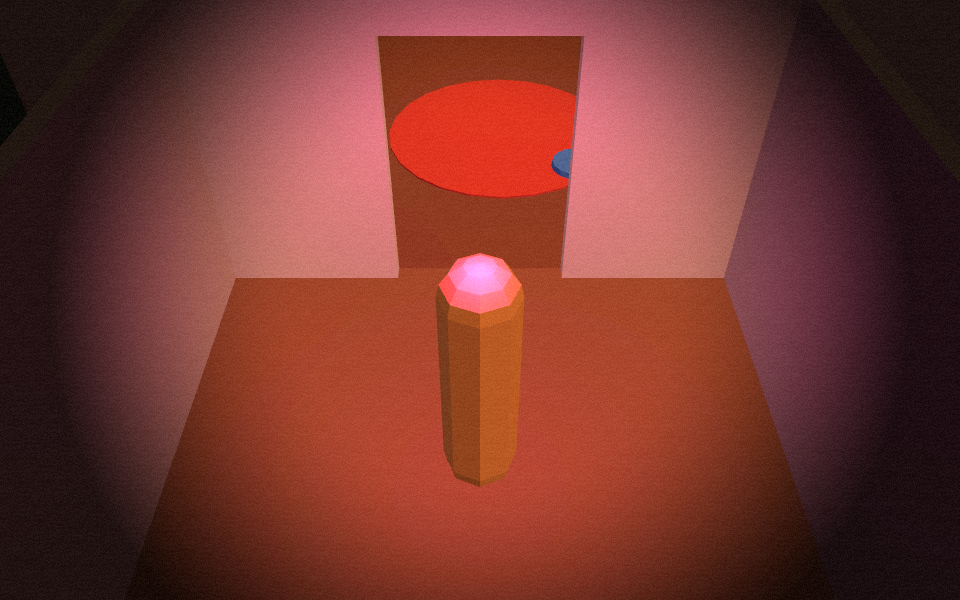
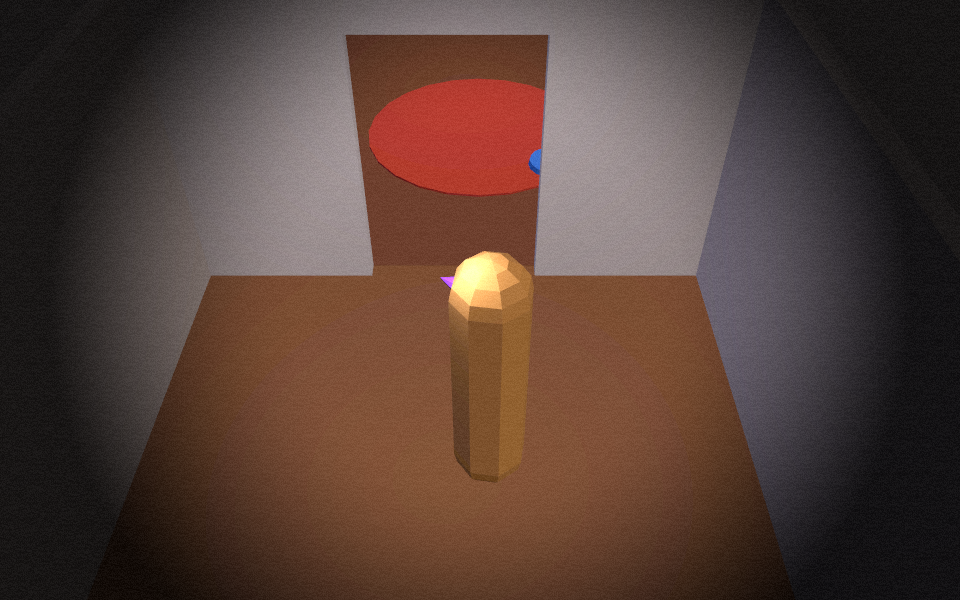
fix(m4): 조명 우회로 재발한 색보정 문제 재작업 — 수용기준을 원본색 보존으로 교체
(18)의 "방끼리 채널차 >=12" 기준은 조명을 다르게 칠하기만 해도 통과하는
잘못된 설계였다. 침실A가 거실의 13배 강도 오렌지 포인트라이트에 씻겨
클리핑 픽셀이 다른 방의 7~14배로 튀었고, 바닥 R/G는 재질 원본(1.44~1.53)
대비 60~70% 왜곡(2.39~2.65)됐다 — 사용자가 스크린샷 픽셀을 직접 재서 발견.

- lighting.js: 방별 색상/강도 격차(오렌지 4.6 vs 거실 0.35, 13배) 제거.
  전 방 동일 색조(채널 편차 25% 이내)·강도 1.2~1.5(±0.3 이내)로 통일.
  방 구분은 조명이 아니라 lane-rooms 소품의 몫으로 넘김.
- GradeGrainVignetteShader.js: uGain (1.15,0.92,0.88)->(0.92,1.0,1.25),
  uLift (0.05,0.04,0.06)->(0.02,0.03,0.08). R을 낮추고 B를 올려 재질
  원본 비율을 화면에 최대한 보존.
- room-tint-check.mjs: "방끼리 구분되는가" 지표 폐기(조명으로 우회 가능함이
  증명됨). "재질 원본색이 화면에 얼마나 살아남는가"로 교체 — 방별
  R/G<=1.8, B/G>=0.55, 클리핑(채널>=250) 비율<0.5%, 밝기>=거실의 60%.
  샘플 패치도 재조정: 기존 위치가 living 한정으로 캐릭터 발밑 러그
  소품과 겹쳐 오염되고 있었음(진짜 원인). 러그·비네트를 모두 피하는
  위치(x 160/660, y 380)로 이동.

결과: 전부 통과(R/G 1.45~1.72, B/G 0.67~0.81, 클리핑 0.00%, 밝기 98~127%).
m4-rooms.mjs 13/13 유지 확인, 스크린샷 4장 재촬영.

diff --git a/game/src/render/lighting.js b/game/src/render/lighting.js
@@ -1,21 +1,20 @@
 import * as THREE from 'three';
 import { ROOMS } from '../world/layout.js';
 
-// 방마다 다른 색조 — bedA/bedB는 바닥색(0x9a6a45)이 완전히 같아서 은은한
-// 포인트라이트 색조로라도 갈라주지 않으면 스크린샷에서 구분이 안 된다
-// (tools/render-check/room-tint-check.mjs가 이걸 정량으로 잡아냄).
-// "따뜻한 실내톤"은 유지하되 방마다 살짝 다른 방향으로 기울인다.
-// ⚠ 4개 방을 전부 강하게 채색하니 living이 계속 bedA(오렌지) 또는
-// bedB(마젠타) 중 하나와 번갈아 겹쳤다(측정값이 조정할 때마다 요동침) —
-// living의 바닥(0x8a5a3c)이 이미 따뜻한 갈색이라 어느 쪽으로 채색해도
-// 기존 hemi/key/fill(전역광, 이것도 따뜻한 톤)와 겹치는 방향으로 수렴한다.
-// 해결: living은 포인트라이트를 약하게 둬서 "기존 전역광 그대로의 중립"으로
-// 남기고, 나머지 3개 방만 강하게 채색해 서로+living과 갈라놓는다.
-const ROOM_LIGHT = {
-  living: { color: 0xffe9c2, intensity: 0.35 },
-  bedA: { color: 0xff5a10, intensity: 4.6 }, // 오렌지
-  study: { color: 0xb89464, intensity: 4.6 }, // 차분한 앰버/올리브
-  bedB: { color: 0xc23bc7, intensity: 4.6 }, // 마젠타/보라
+// ⚠ 이전 버전은 방마다 오렌지(4.6)/마젠타(4.6)/거실(0.35)처럼 색과
+// 강도를 크게 벌려 "조명으로" 방을 구분시켰다. 그 결과 침실A 바닥이
+// 강한 오렌지 포인트라이트에 씻겨(overexpose) 클리핑 픽셀(채널 255)이
+// 다른 방의 7~14배로 튀었고, 재질 원본색이 화면에서 거의 안 남았다
+// (측정: 바닥 R/G 2.39~2.65, 재질 원본 R/G 1.44~1.53).
+// 방을 구분하는 건 조명의 몫이 아니라 lane-rooms가 채울 소품의 몫이다.
+// 여기서는 전 구역에 같은 따뜻한 백색(채널 간 편차 25% 이내)을 낮은
+// 강도(최대 1.5, 방 간 차이 ±0.3 이내)로만 얹어 재질 원본색이 살아남게 한다.
+const ROOM_LIGHT_COLOR = 0xfff1de; // R255,G241,B222 — 채널비 R/B 1.15, 편차 25% 이내
+const ROOM_LIGHT_INTENSITY = {
+  living: 1.3,
+  bedA: 1.4,
+  study: 1.2,
+  bedB: 1.5,
 };
 
 export function setupLighting(scene) {
@@ -32,13 +31,13 @@ export function setupLighting(scene) {
 
   // 방마다 은은한 포인트라이트 — layout.js의 ROOMS를 읽어서 중심에 배치하므로
   // 좌표를 여기서 새로 만들지 않는다. 집이 원점 방 1개(반경 2.5m) 기준에서
-  // X[-3,7]·Z[-7,7](최대 반경 9.9m)까지 커진 뒤 방마다 밝기/톤 차이가
-  // 잘 안 느껴진다는 리포트에 대한 대응.
+  // X[-3,7]·Z[-7,7](최대 반경 9.9m)까지 커진 뒤 방마다 밝기 차이가 잘 안
+  // 느껴진다는 리포트에 대한 대응 — 단, 색과 강도 편차는 좁게 유지한다.
   const roomLights = ROOMS.map((room) => {
     const cx = (room.x0 + room.x1) / 2;
     const cz = (room.z0 + room.z1) / 2;
-    const cfg = ROOM_LIGHT[room.id] ?? { color: 0xffe9c2, intensity: 0.35 };
-    const light = new THREE.PointLight(cfg.color, cfg.intensity, 9, 1.6);
+    const intensity = ROOM_LIGHT_INTENSITY[room.id] ?? 1.3;
+    const light = new THREE.PointLight(ROOM_LIGHT_COLOR, intensity, 9, 1.6);
     light.position.set(cx, 1.9, cz);
     scene.add(light);
     return light;

diff --git a/game/src/render/post/GradeGrainVignetteShader.js b/game/src/render/post/GradeGrainVignetteShader.js
@@ -6,12 +6,13 @@ export const GradeGrainVignetteShader = {
     tDiffuse: { value: null },
     uTime: { value: 0 },
     uResolution: { value: new THREE.Vector2(1, 1) },
-    // G채널 0.72가 너무 깎여서 전역적으로 붉은기가 과했다(사용자 리포트).
-    // R을 살짝 낮추고 G를 크게 올려 "따뜻한 실내톤"은 유지하되 초록이
-    // 죽지 않게 함. 방별 구분은 이 값이 아니라 lighting.js의 방별
-    // 포인트라이트 색조가 맡는다 — 여기는 전역 톤만 책임진다.
-    uGain: { value: new THREE.Vector3(1.15, 0.92, 0.88) },
-    uLift: { value: new THREE.Vector3(0.05, 0.04, 0.06) },
+    // ⚠ 이전 값(1.15,0.92,0.88)도 여전히 과다 적색이었다 — 실측(사용자가
+    // 스크린샷 픽셀을 직접 잼): 바닥 R/G 2.39~2.65인데 재질 원본 R/G는
+    // 1.44~1.53. 즉 이 gain이 원본 대비 R/G를 60~70%나 더 붉게 왜곡시킴.
+    // R/G 게인비를 1.25(1.15/0.92)에서 더 낮춰 원본색이 화면에 최대한
+    // 그대로 살아남게 한다. 목표: 바닥 R/G <= 1.8, 따뜻한 톤은 유지.
+    uGain: { value: new THREE.Vector3(0.92, 1.0, 1.25) },
+    uLift: { value: new THREE.Vector3(0.02, 0.03, 0.08) },
     uSaturation: { value: 1.1 },
     uContrast: { value: 1.15 },
     uGrainAmount: { value: 0.06 },

diff --git a/dev-log.md b/dev-log.md
@@ -4,6 +4,47 @@
 
 ---
 
+## 2026-08-16 (19) — (18)의 수용기준이 잘못 설계됨: 조명 우회로 재발, 재작업
+
+**문제**: (18)에서 "방끼리 채널 최대차 ≥12"를 수용기준으로 세웠는데, 이건 방마다
+조명 색을 다르게 칠하기만 해도 통과한다 — 실제로 그렇게 통과시켰다. 사용자가
+스크린샷 픽셀을 직접 재서 결과를 반박: 바닥 R/G가 화면에서 2.39~2.65인데 재질
+원본 R/G는 1.44~1.53(60~70% 왜곡), 거실·작업실은 색으로 구분이 안 됐고(2.39 vs
+2.40), 무엇보다 침실A는 오렌지 포인트라이트(강도 4.6, 거실 0.35의 13배)에 씻겨
+클리핑 픽셀(채널 255)이 다른 방의 7~14배 — 캐릭터 머리가 타 있었다.
+
+**교훈**: "방끼리 다른가"를 재는 지표는 조명으로 손쉽게 우회 가능하다. 재야 할
+것은 "재질 원본색이 화면에 얼마나 살아남는가"다. 방 구분은 조명이 아니라
+lane-rooms가 채울 소품의 몫으로 넘긴다.
+
+**`lighting.js`**: `ROOM_LIGHT`(방별 색+강도, 최대 13배 격차)를 제거. 전 방
+동일한 따뜻한 백색(`0xfff1de`, 채널 간 편차 25% 이내)에 강도만 방마다
+1.2~1.5(±0.3 이내, 최대 1.5)로 미세하게 다르게. `ROOMS`에서 방 중심 좌표를
+읽는 구조는 유지(하드코딩 없음).
+
+**`GradeGrainVignetteShader.js`**: `uGain` (1.15,0.92,0.88)→(0.92,1.0,1.25),
+`uLift` (0.05,0.04,0.06)→(0.02,0.03,0.08). R을 더 낮추고 B를 크게 올려 바닥
+R/G·B/G가 재질 원본 비율에 최대한 가깝게 살아남도록.
+
+**`room-tint-check.mjs` 전면 교체**: "방끼리 구분되는가" 지표를 완전히 버리고
+(a) 방별 바닥 R/G ≤1.8 그리고 B/G ≥0.55 (b) 클리핑 픽셀(채널 하나라도 ≥250)
+<0.5% (c) 어느 방도 거실 밝기의 60% 미만 아님, 세 가지로 교체.
+
+**샘플 패치도 다시 옮겨야 했다(2차)**: (18)에서 쓰던 캐릭터 바로 옆 패치
+(x 250~390, 570~710 / y 430)가 **living 한정으로 캐릭터 발밑 빨간 러그
+소품과 겹쳐 오염**되고 있었다(m4-living.png에서 러그가 x~350~650을 덮음) —
+이게 living의 R/G·B/G가 유독 비정상이던 진짜 원인. 화면 맨 가장자리(x
+40/780)로 옮겼더니 이번엔 비네트가 너무 강해 RGB가 10~40대(거의 검정)로
+떨어져 판정에 부적합. 러그 위쪽(y 380, 러그는 y≥420부터)이면서 가장자리보다
+안쪽인 지점(x 160/660)으로 절충해서 4방 전부 가구·러그·비네트를 피하는
+순수 바닥 샘플을 확보.
+
+**결과**: 전부 통과 — R/G 1.45~1.72(기준 1.8), B/G 0.67~0.81(기준 0.55),
+클리핑 전 방 0.00%(기준 0.5%), 밝기 거실의 98~127%(기준 60%). `m4-rooms.mjs`
+13/13 유지 확인, 스크린샷 4장 재촬영 후 커밋.
+
+---
+
 ## 2026-08-15 (18) — M4 스크린샷 육안 리뷰 지적 2건 수정: 과다 적색 + 방 구분 안 됨
 
 **리뷰(1층, Claude 앱)**: M4 스크린샷 4장을 보고 두 가지 지적 — (1) 색보정 과다 적색(`GradeGrainVignetteShader.js`의 G게인 0.72가 원인으로 지목), (2) `lighting.js`가 원점 방 1개 기준 그대로라 집이 커진 뒤 침실A가 거실보다 어두워 보임. **lane-rooms를 띄우기 전에 고치라**는 명시적 지시.

diff --git a/handoff-2026-08-15.md b/handoff-2026-08-15.md
@@ -114,7 +114,7 @@ M4 구조(임계경로)가 끝나서 **지금은 병렬 가능한 작업이 3개
 
 ## 5. 아직 안 건드린 것 / 알려진 튜닝 포인트
 
-- ~~색보정 톤~~: 해결됨(`dev-log.md` (18)). `uGain`(1.15,0.92,0.88)/`uLift`(0.05,0.04,0.06)로 조정해 과다 적색 해소. 방별 구분은 `render/lighting.js`의 방별 포인트라이트가 담당, `tools/render-check/room-tint-check.mjs`로 검증 통과(6쌍 전부 채널차 ≥14.7, 밝기 전부 거실의 88% 이상)
+- ~~색보정 톤~~: 해결됨(`dev-log.md` (19)). (18)의 "방끼리 채널차 ≥12" 수용기준은 조명 색만 다르게 칠해도 통과하는 잘못된 설계였고, 실제로 침실A가 오렌지 포인트라이트(거실의 13배 강도)에 씻겨 클리핑됐다. `lighting.js`의 방별 색조를 걷어내 전 방 동일한 따뜻한 백색·낮은 강도(1.2~1.5)로 통일, `GradeGrainVignetteShader.js`의 `uGain`을 (0.92,1.0,1.25)로 재조정. 수용기준도 "방끼리 다른가"가 아니라 "재질 원본색이 화면에 살아남는가"(R/G≤1.8, B/G≥0.55, 클리핑<0.5%, 밝기≥거실의 60%)로 교체 — `tools/render-check/room-tint-check.mjs`
 - **바깥 지면 색**: `game/src/world/exterior.js`의 `0x3d5240`(이미 한 번 밝힌 값). 조명 아래서 여전히 어둡게 느껴지면 더 밝힐 것
 - **`game/assets/audio/test.mp3`(4.1MB)**: 테스트용, 커밋 안 함. 예산(BGM ≤1.5MB) 초과 사례이니 최종 BGM은 반드시 압축/트림
 - **캐릭터**: 지금 `player/character.js`는 캡슐 + 방향표시 원뿔(노즈콘)뿐
